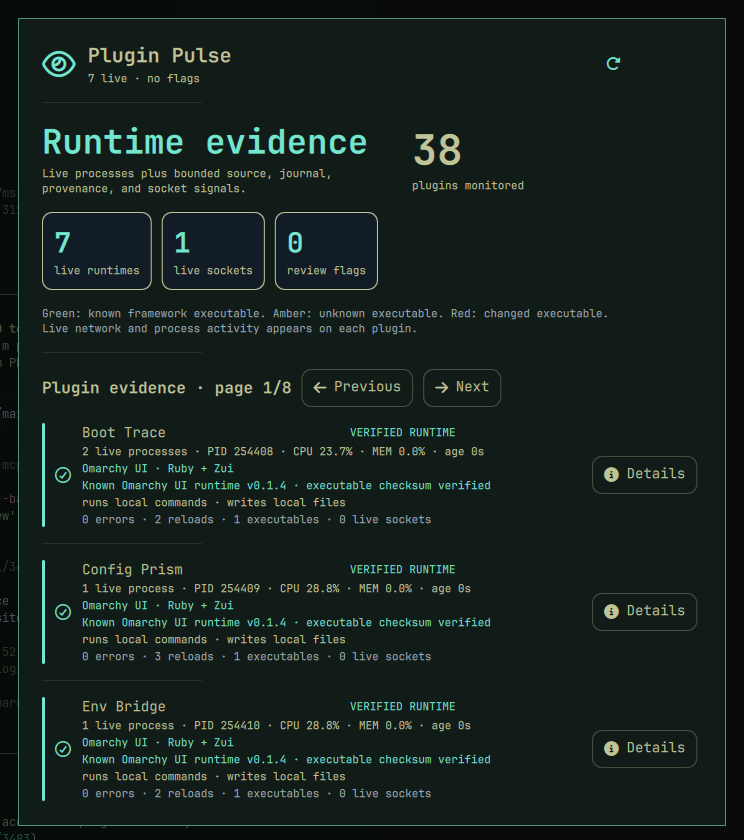
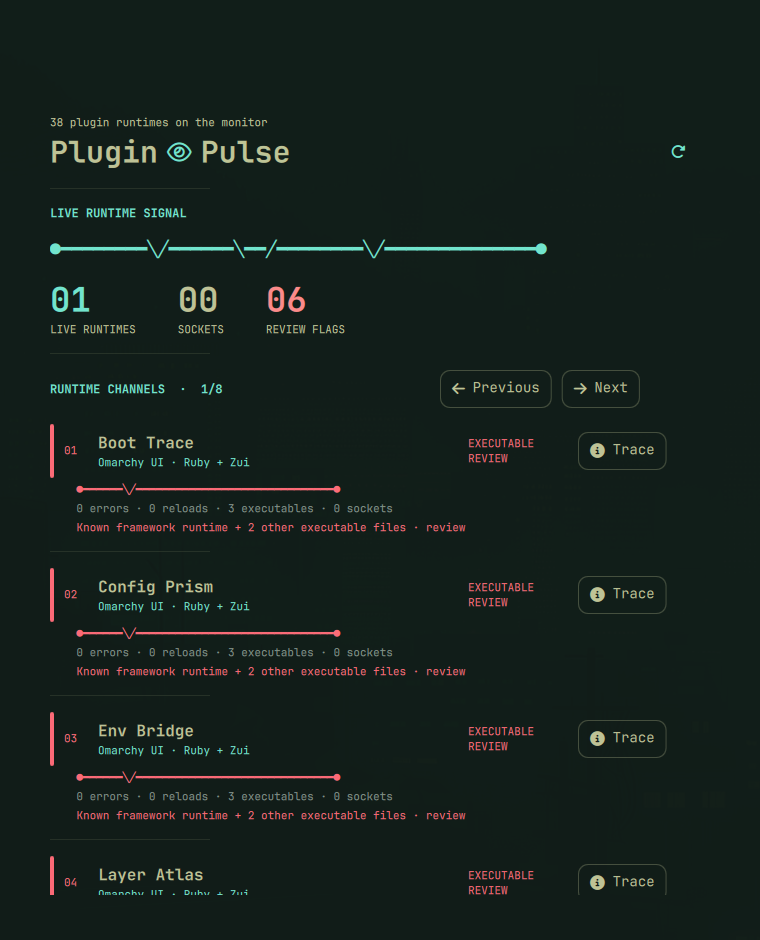
Redesign Plugin Pulse as live telemetry

diff --git a/main.rb b/main.rb
@@ -685,173 +685,190 @@ OmarchyUI.plugin do
   end
 
   bar_widget do
-    row spacing: 7 do
-      icon :eye, color: "#73e6cf"
-      text { state.snapshot.fetch("summary") }
+    row spacing: 6 do
+      icon :eye, size: 14, color: "#73e6cf"
+      text "PULSE", style: :caption, color: "#73e6cf"
+      text(style: :caption) { state.snapshot.fetch("summary") }
     end
     on_click { open_panel :plugin_pulse }
   end
 
   panel :plugin_pulse do
-    scroll width: 660, height: 760 do
+    scroll width: 660, height: 780 do
       dynamic id: :scene, spacing: 16 do
         entries = state.snapshot.fetch("items")
-        history = state.snapshot.fetch("history")
-
-        row spacing: 12 do
-          icon :eye, size: 30, color: "#73e6cf"
-          column spacing: 2 do
-            text "Plugin Pulse", style: :heading, width: 500
-            text state.snapshot.fetch("summary"), style: :caption, width: 500
-          end
-          action_button :refresh, tooltip: "Refresh", foreground: "#73e6cf" do
-            async(&refresh)
-          end
-        end
-
-        separator
         selected_entry = entries.find { |entry| entry.fetch("id", "") == state.selected_plugin }
-            if selected_entry
-              evidence = selected_entry.fetch("evidence", {})
-              connections = Array(evidence.fetch("connections", []))
-              endpoints = Array(evidence.fetch("source_endpoints", []))
-              http_calls = Array(evidence.fetch("http_calls", []))
 
-              row spacing: 10 do
-                button "Back", icon: :arrow_left do
-                  state.selected_plugin = ""
-                end
-                column spacing: 2 do
-                  text selected_entry.fetch("title"), style: :heading, width: 390
-                  text evidence.fetch("plugin_id", ""), style: :caption, width: 390
-                end
-                text evidence.fetch("trust", "unknown").upcase, style: :caption, color: status_color.call(selected_entry.fetch("status", ""))
-              end
+        if selected_entry
+          evidence = selected_entry.fetch("evidence", {})
+          connections = Array(evidence.fetch("connections", []))
+          endpoints = Array(evidence.fetch("source_endpoints", []))
+          http_calls = Array(evidence.fetch("http_calls", []))
+          signal_color = evidence.fetch("security_level", "") == "danger" ? "#ff8b8b" :
+            (evidence.fetch("security_level", "") == "review" ? "#f0bd6a" : "#73e6cf")
 
-              card padding: 14, spacing: 5, accent: evidence.fetch("security_level", "") == "danger" ? "#ff6b78" : (evidence.fetch("security_level", "") == "review" ? "#f0bd6a" : "#73e6cf") do
-                section_header "Security finding"
-                text evidence.fetch("security_finding", "Security finding unavailable"), width: 570, wrap: true
-                text evidence.fetch("framework", "Unknown framework"), style: :caption, color: "#73e6cf", width: 570, wrap: true
-                text selected_entry.fetch("meta", ""), style: :caption, width: 570, wrap: true
-              end
-
-              section_header "Process and execution"
-              text selected_entry.fetch("detail", ""), width: 590, wrap: true
-              text "#{evidence.fetch("errors", 0)} errors · #{evidence.fetch("reloads", 0)} reloads · #{evidence.fetch("executables", 0)} executable files", style: :caption, color: "#9ca8b2", width: 590, wrap: true
-
-              separator
-              section_header "Live network connections"
-              if connections.empty?
-                text "No live socket is attributable to this plugin right now.", style: :caption, color: "#9ca8b2", width: 590, wrap: true
-              else
-                connections.each do |connection|
-                  card padding: 10, spacing: 2 do
-                    text "#{connection.fetch("protocol", "?").upcase} · #{connection.fetch("state", "unknown")} · PID #{connection.fetch("pid", "?")}", color: "#73e6cf", width: 570
-                    text "#{connection.fetch("local", "?")} → #{connection.fetch("remote", "?")}", style: :caption, width: 570, wrap: true
-                  end
-                end
-              end
-
-              section_header "HTTP calls and responses"
-              if http_calls.empty?
-                text "No framework HTTP response was recorded. HTTPS content stays encrypted; OS monitoring can only show its connection above.", style: :caption, color: "#9ca8b2", width: 590, wrap: true
-              else
-                http_calls.reverse_each do |call|
-                  http_status = call.fetch("http_status", 0).to_i
-                  response = http_status.positive? ? "HTTP #{http_status}" : "process exit #{call.fetch("exit_status", 0)}"
-                  card padding: 10, spacing: 2 do
-                    text "#{call.fetch("method", "GET")} · #{response}", color: http_status >= 400 || call.fetch("exit_status", 0).to_i != 0 ? "#ff6b78" : "#73e6cf", width: 570
-                    text call.fetch("url", ""), style: :caption, width: 570, wrap: true
-                    text "#{call.fetch("response_bytes", 0)} response bytes · #{call.fetch("duration_ms", 0)} ms", style: :caption, color: "#9ca8b2"
-                  end
-                end
-              end
-
-              section_header "HTTP endpoints found in source"
-              if endpoints.empty?
-                text "No literal HTTP endpoint was found in readable plugin source.", style: :caption, color: "#9ca8b2", width: 590, wrap: true
-              else
-                endpoints.each do |endpoint|
-                  text endpoint, style: :caption, width: 590, wrap: true
-                end
-              end
-            else
-            attention = entries.count { |entry| entry.fetch("status", "") == "attention" }
-            dedicated = entries.count { |entry| entry.fetch("status", "") == "active" }
-            live_sockets = entries.inject(0) do |sum, entry|
-              evidence = entry.fetch("evidence", {})
-              sum + evidence.fetch("live_sockets", 0).to_i
+          row spacing: 10 do
+            button "Back", icon: :arrow_left do
+              state.selected_plugin = ""
             end
-            page_size = 5
-            page_count = [(entries.length.to_f / page_size).ceil, 1].max
-            page = state.page.to_i % page_count
-            visible_entries = entries.drop(page * page_size).first(page_size)
-            row spacing: 20 do
+            column spacing: 1 do
+              text selected_entry.fetch("title"), size: 27, bold: true, width: 390
+              text evidence.fetch("plugin_id", ""), style: :caption, width: 390
+            end
+            text evidence.fetch("trust", "unknown").upcase, style: :caption, color: signal_color
+          end
+          separator
+          text "SECURITY SIGNAL", size: 12, bold: true, color: signal_color
+          text "━━━━━━╲╱━━━━━━━━╲━━╱━━━━━━━━━━━━━━━━━━━━━━●", size: 17, color: signal_color
+          text evidence.fetch("security_finding", "Security finding unavailable"),
+               size: 18, bold: true, width: 590, wrap: true
+          text evidence.fetch("framework", "Unknown framework"), style: :caption,
+               color: "#73e6cf", width: 590, wrap: true
+          text selected_entry.fetch("meta", ""), style: :caption, color: "#829088", width: 590, wrap: true
+          row spacing: 34 do
+            column spacing: 0 do
+              text evidence.fetch("errors", 0).to_s.rjust(2, "0"), size: 28, bold: true,
+                   color: evidence.fetch("errors", 0).to_i.zero? ? "#73e6cf" : "#ff8b8b"
+              text "ERRORS", style: :caption
+            end
+            column spacing: 0 do
+              text evidence.fetch("reloads", 0).to_s.rjust(2, "0"), size: 28, bold: true
+              text "RELOADS", style: :caption
+            end
+            column spacing: 0 do
+              text evidence.fetch("executables", 0).to_s.rjust(2, "0"), size: 28, bold: true
+              text "EXECUTABLES", style: :caption
+            end
+            column spacing: 0 do
+              text evidence.fetch("live_sockets", 0).to_s.rjust(2, "0"), size: 28, bold: true
+              text "SOCKETS", style: :caption
+            end
+          end
+          text selected_entry.fetch("detail", ""), style: :caption, width: 590, wrap: true
+          separator
+          text "LIVE NETWORK", size: 12, bold: true, color: "#73e6cf"
+          if connections.empty?
+            text "○━━━━━━━━━━━━━━━━━━━━━━━━━━━━━━━━━━━━  no attributable socket",
+                 style: :caption, color: "#829088", width: 590, wrap: true
+          else
+            connections.each do |connection|
+              column spacing: 3 do
+                text "#{connection.fetch("protocol", "?").upcase}  PID #{connection.fetch("pid", "?")}  #{connection.fetch("state", "unknown").upcase}",
+                     style: :caption, color: "#73e6cf"
+                text "●━━━━━━━━━━━━━━━━━━━━━━━━━━━━━━━━━━━━━━●", style: :caption, color: "#73e6cf"
+                text "#{connection.fetch("local", "?")}  →  #{connection.fetch("remote", "?")}",
+                     style: :caption, width: 590, wrap: true
+              end
+            end
+          end
+          separator
+          text "HTTP RESPONSES", size: 12, bold: true, color: "#73e6cf"
+          if http_calls.empty?
+            text "No framework HTTP response recorded; encrypted payloads remain private.",
+                 style: :caption, color: "#829088", width: 590, wrap: true
+          else
+            http_calls.reverse_each do |call|
+              http_status = call.fetch("http_status", 0).to_i
+              call_color = http_status >= 400 || call.fetch("exit_status", 0).to_i != 0 ? "#ff8b8b" : "#73e6cf"
+              response = http_status.positive? ? "HTTP #{http_status}" : "EXIT #{call.fetch("exit_status", 0)}"
               column spacing: 2 do
-                text "Runtime evidence", size: 34, bold: true, color: "#73e6cf"
-                text "Live processes plus bounded source, journal, provenance, and socket signals.", style: :caption, width: 350, wrap: true
-              end
-              column spacing: 0 do
-                text entries.length.to_s.rjust(2, "0"), size: 42, bold: true
-                text "plugins monitored", style: :caption
+                text "#{call.fetch("method", "GET")}  #{response}  ━━━━━━━━━━━━━━━━━━━●", color: call_color
+                text call.fetch("url", ""), style: :caption, width: 590, wrap: true
+                text "#{call.fetch("response_bytes", 0)} bytes · #{call.fetch("duration_ms", 0)} ms",
+                     style: :caption, color: "#829088"
               end
             end
-            row spacing: 10 do
-              card padding: 12, spacing: 2, accent: "#73e6cf" do
-                text dedicated.to_s, size: 28, bold: true, color: "#73e6cf"
-                text "live runtimes", style: :caption
-              end
-              card padding: 12, spacing: 2 do
-                text live_sockets.to_s, size: 28, bold: true, color: live_sockets.zero? ? "#9ca8b2" : "#73e6cf"
-                text "live sockets", style: :caption
-              end
-              card padding: 12, spacing: 2 do
-                text attention.to_s, size: 28, bold: true, color: attention.zero? ? "#73e6cf" : "#ff6b78"
-                text "review flags", style: :caption
-              end
-            end
-            text "Green: known framework executable. Amber: unknown executable. Red: changed executable. Live network and process activity appears on each plugin.", style: :caption, color: "#9ca8b2", width: 590, wrap: true
+          end
+          unless endpoints.empty?
             separator
-            row spacing: 10 do
-              section_header "Plugin evidence · page #{page + 1}/#{page_count}"
-              button "Previous", icon: :arrow_left do
-                state.page = page.zero? ? page_count - 1 : page - 1
-              end
-              button "Next", icon: :arrow_right, accent: "#73e6cf" do
-                state.page = (page + 1) % page_count
+            text "SOURCE ENDPOINTS", size: 12, bold: true, color: "#73e6cf"
+            endpoints.each { |endpoint| text endpoint, style: :caption, width: 590, wrap: true }
+          end
+        else
+          attention = entries.count { |entry| entry.fetch("status", "") == "attention" }
+          dedicated = entries.count { |entry| entry.fetch("status", "") == "active" }
+          live_sockets = entries.inject(0) do |sum, entry|
+            sum + entry.fetch("evidence", {}).fetch("live_sockets", 0).to_i
+          end
+          page_size = 5
+          page_count = [(entries.length.to_f / page_size).ceil, 1].max
+          page = state.page.to_i % page_count
+          visible_entries = entries.drop(page * page_size).first(page_size)
+
+          column spacing: 2 do
+            text "#{entries.length} plugin runtimes on the monitor", style: :caption, width: 610
+            row spacing: 9 do
+              text "Plugin", size: 30, bold: true
+              icon :eye, size: 22, color: "#73e6cf"
+              text "Pulse", size: 30, bold: true, width: 455
+              action_button :refresh, tooltip: "Sample runtime signals", foreground: "#73e6cf" do
+                async(&refresh)
               end
             end
-            if entries.empty?
-              column spacing: 8 do
-                        icon :eye, size: 34, color: "#73e6cf"
-                        text "Nothing to show yet", style: :heading
-                        text "No enabled plugins were returned by Omarchy's registry.", style: :caption, wrap: true, width: 560
-                      end
-            else
-              visible_entries.each_with_index do |entry, index|
-                evidence = entry.fetch("evidence", {})
+          end
+          separator
+          text "LIVE RUNTIME SIGNAL", size: 12, bold: true, color: "#73e6cf"
+          text "●━━━━━━━━╲╱━━━━━━╲━━╱━━━━━━━━╲╱━━━━━━━━━━━━━━●", size: 18, color: "#73e6cf"
+          row spacing: 42 do
+            column spacing: 0 do
+              text dedicated.to_s.rjust(2, "0"), size: 34, bold: true, color: "#73e6cf"
+              text "LIVE RUNTIMES", style: :caption
+            end
+            column spacing: 0 do
+              text live_sockets.to_s.rjust(2, "0"), size: 34, bold: true
+              text "SOCKETS", style: :caption
+            end
+            column spacing: 0 do
+              text attention.to_s.rjust(2, "0"), size: 34, bold: true,
+                   color: attention.zero? ? "#829088" : "#ff8b8b"
+              text "REVIEW FLAGS", style: :caption
+            end
+          end
+          separator
+          row spacing: 10 do
+            text "RUNTIME CHANNELS  ·  #{page + 1}/#{page_count}", size: 12, bold: true,
+                 color: "#73e6cf", width: 380
+            button "Previous", icon: :arrow_left do
+              state.page = page.zero? ? page_count - 1 : page - 1
+            end
+            button "Next", icon: :arrow_right, accent: "#73e6cf" do
+              state.page = (page + 1) % page_count
+            end
+          end
+
+          if entries.empty?
+            text "No enabled plugin runtimes were returned by Omarchy.",
+                 style: :caption, color: "#829088", width: 590, wrap: true
+          else
+            visible_entries.each_with_index do |entry, index|
+              evidence = entry.fetch("evidence", {})
+              pulse_color = status_color.call(entry.fetch("status", ""))
+              column spacing: 4 do
                 row spacing: 10 do
-                  rectangle width: 3, height: 104, radius: 2, color: status_color.call(entry.fetch("status", ""))
-                  icon status_icon.call(entry.fetch("status", "")), size: 16, color: status_color.call(entry.fetch("status", ""))
-                  column spacing: 2 do
-                    row spacing: 8 do
-                      text entry.fetch("title"), width: 260
-                      text evidence.fetch("trust", "unknown").upcase, style: :caption, color: status_color.call(entry.fetch("status", ""))
-                    end
-                    text entry.fetch("detail", ""), style: :caption, width: 500, wrap: true
-                    text evidence.fetch("framework", "Unknown framework"), style: :caption, color: "#73e6cf", width: 500, wrap: true
-                    text evidence.fetch("security_finding", "Security finding unavailable"), style: :caption, color: evidence.fetch("security_level", "") == "danger" ? "#ff6b78" : (evidence.fetch("security_level", "") == "review" ? "#f0bd6a" : "#73e6cf"), width: 500, wrap: true
-                    text entry.fetch("meta", ""), style: :caption, width: 500, wrap: true
-                    text "#{evidence.fetch("errors", 0)} errors · #{evidence.fetch("reloads", 0)} reloads · #{evidence.fetch("executables", 0)} executables · #{evidence.fetch("live_sockets", 0)} live sockets", style: :caption, color: "#9ca8b2", width: 500, wrap: true
+                  rectangle width: 4, height: 54, radius: 2, color: pulse_color
+                  text (page * page_size + index + 1).to_s.rjust(2, "0"),
+                       style: :caption, color: pulse_color, width: 24
+                  column spacing: 1 do
+                    text entry.fetch("title"), size: 16, bold: true, width: 360
+                    text evidence.fetch("framework", "Unknown framework"),
+                         style: :caption, color: "#73e6cf", width: 360, wrap: true
                   end
-                  button "Details", icon: :circle_info do
+                  text evidence.fetch("trust", "unknown").upcase,
+                       style: :caption, color: pulse_color, width: 100
+                  button "Trace", icon: :circle_info do
                     state.selected_plugin = entry.fetch("id", "")
                   end
                 end
-                separator unless index == visible_entries.length - 1
+                text "    ●━━━━━━╲╱━━━━━━━━━━━━━━━━━━━━━━━━━━━━━━●", style: :caption, color: pulse_color
+                text "    #{evidence.fetch("errors", 0)} errors · #{evidence.fetch("reloads", 0)} reloads · #{evidence.fetch("executables", 0)} executables · #{evidence.fetch("live_sockets", 0)} sockets",
+                     style: :caption, color: "#829088", width: 560, wrap: true
+                text "    #{evidence.fetch("security_finding", "Security finding unavailable")}",
+                     style: :caption, color: pulse_color, width: 560, wrap: true
               end
+              separator unless index == visible_entries.length - 1
             end
-            end
+          end
+        end
       end
     end
   end
